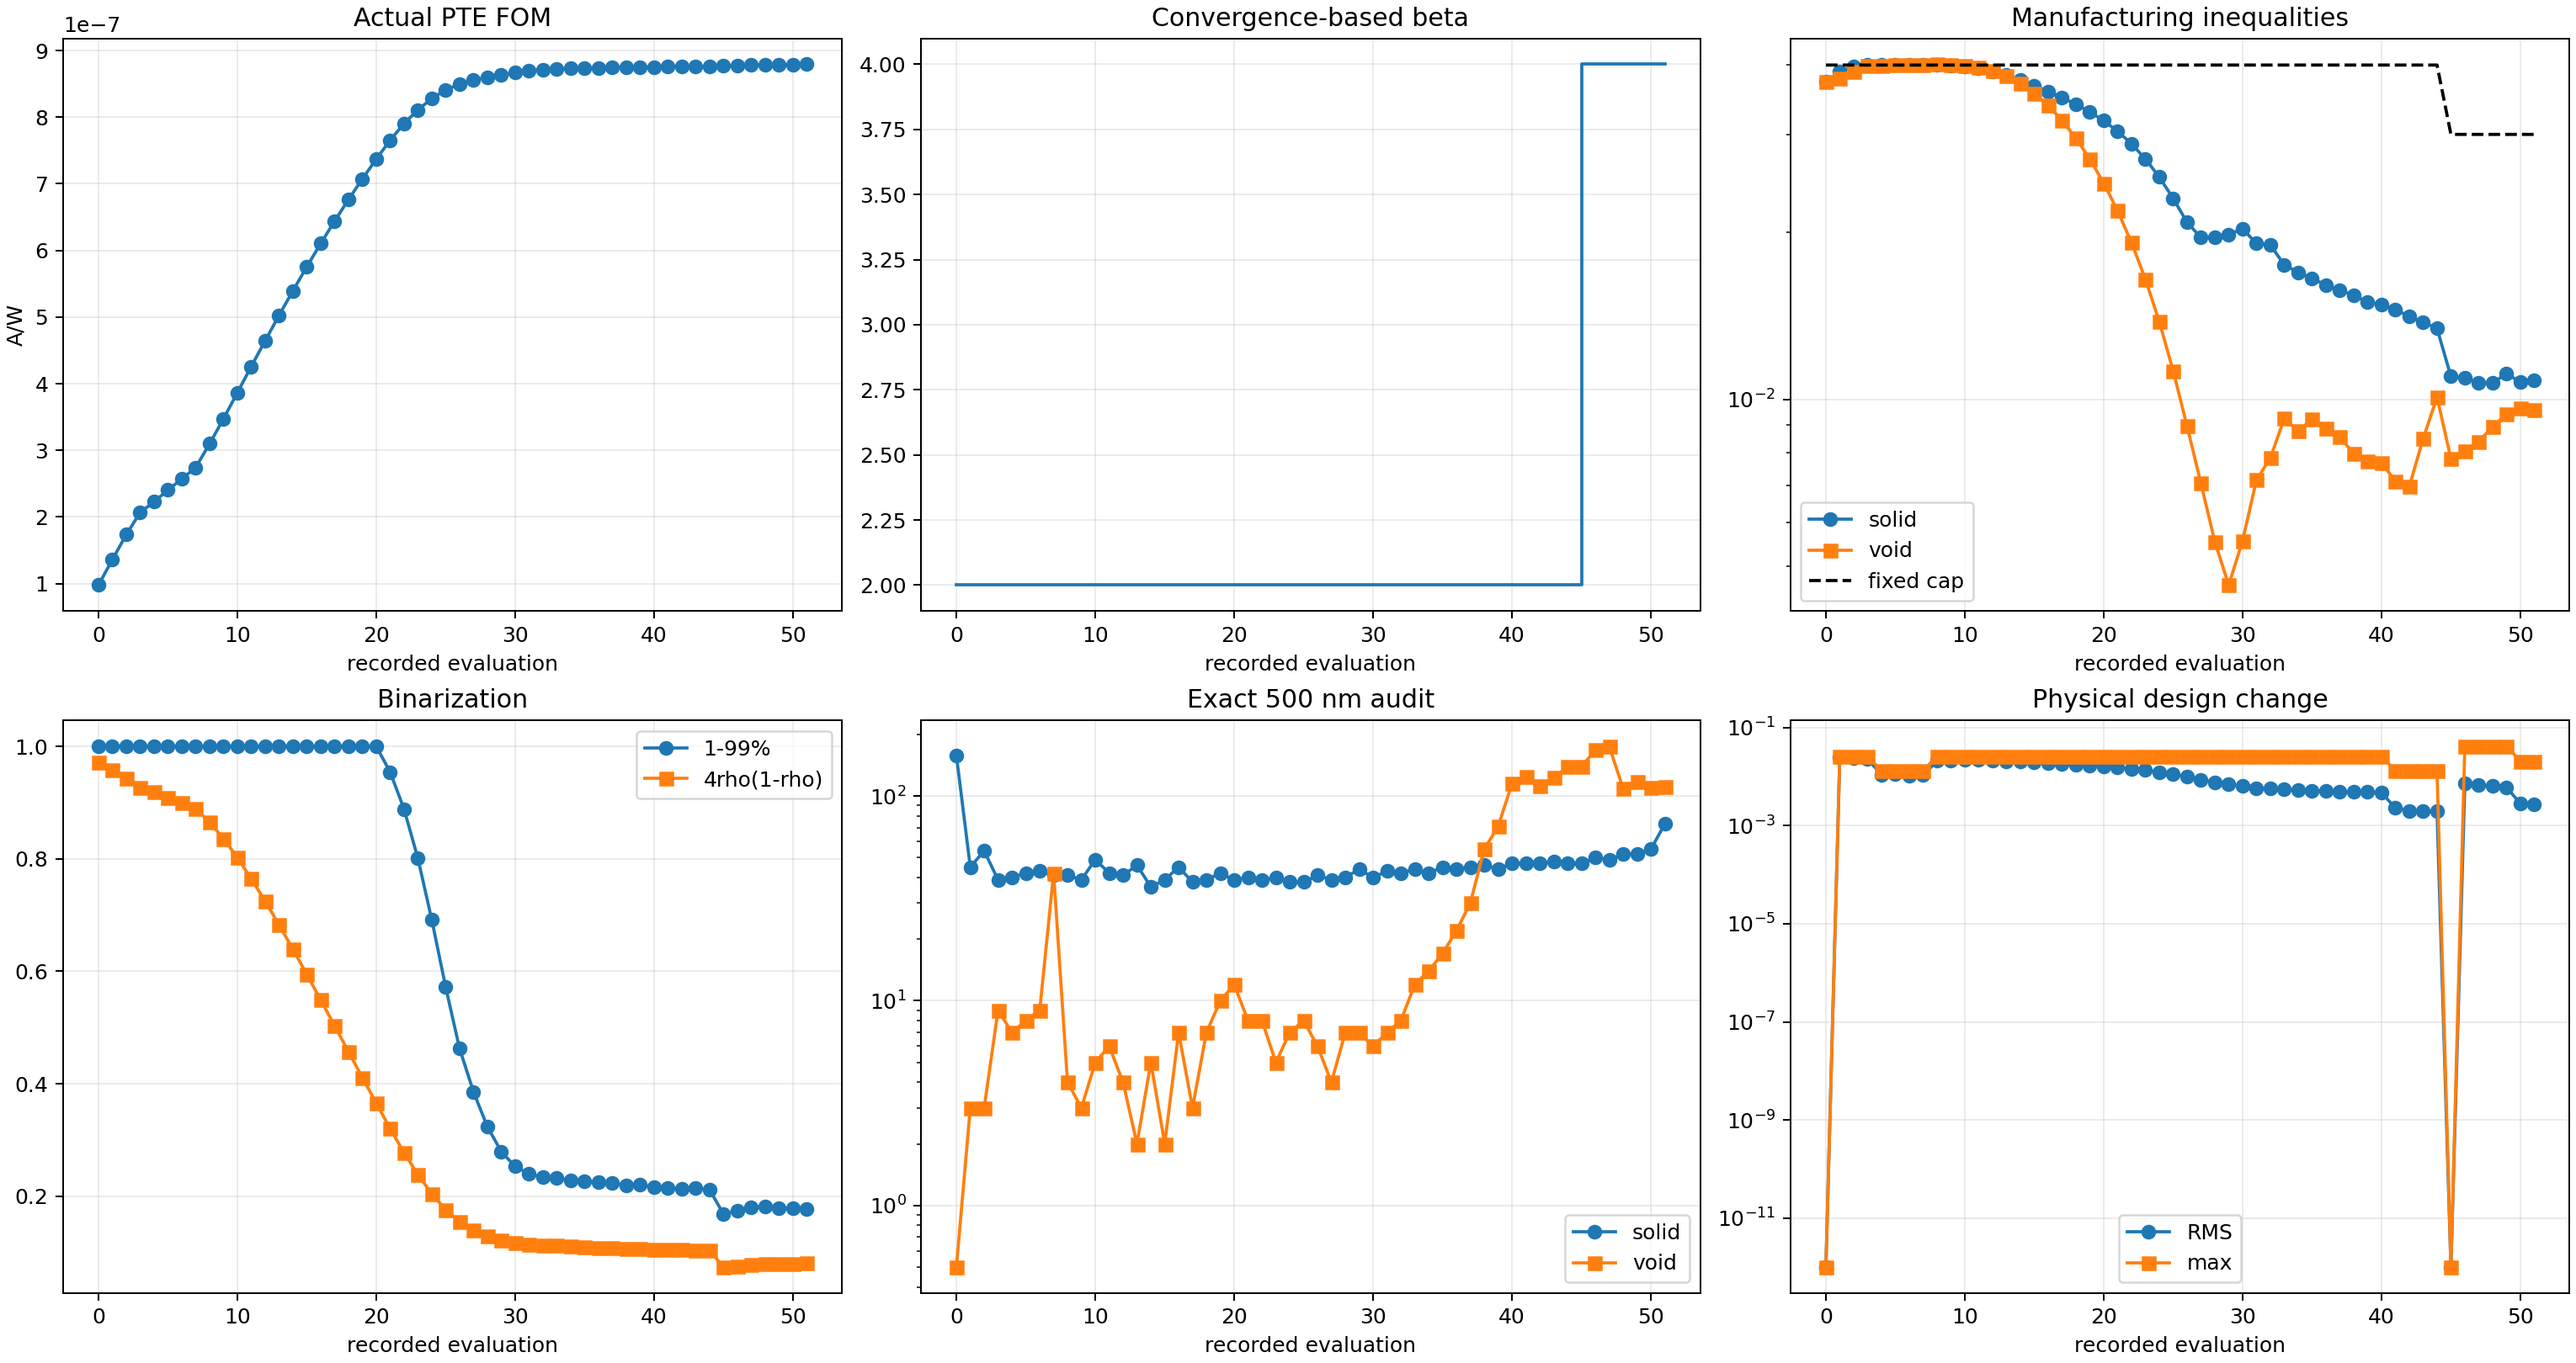
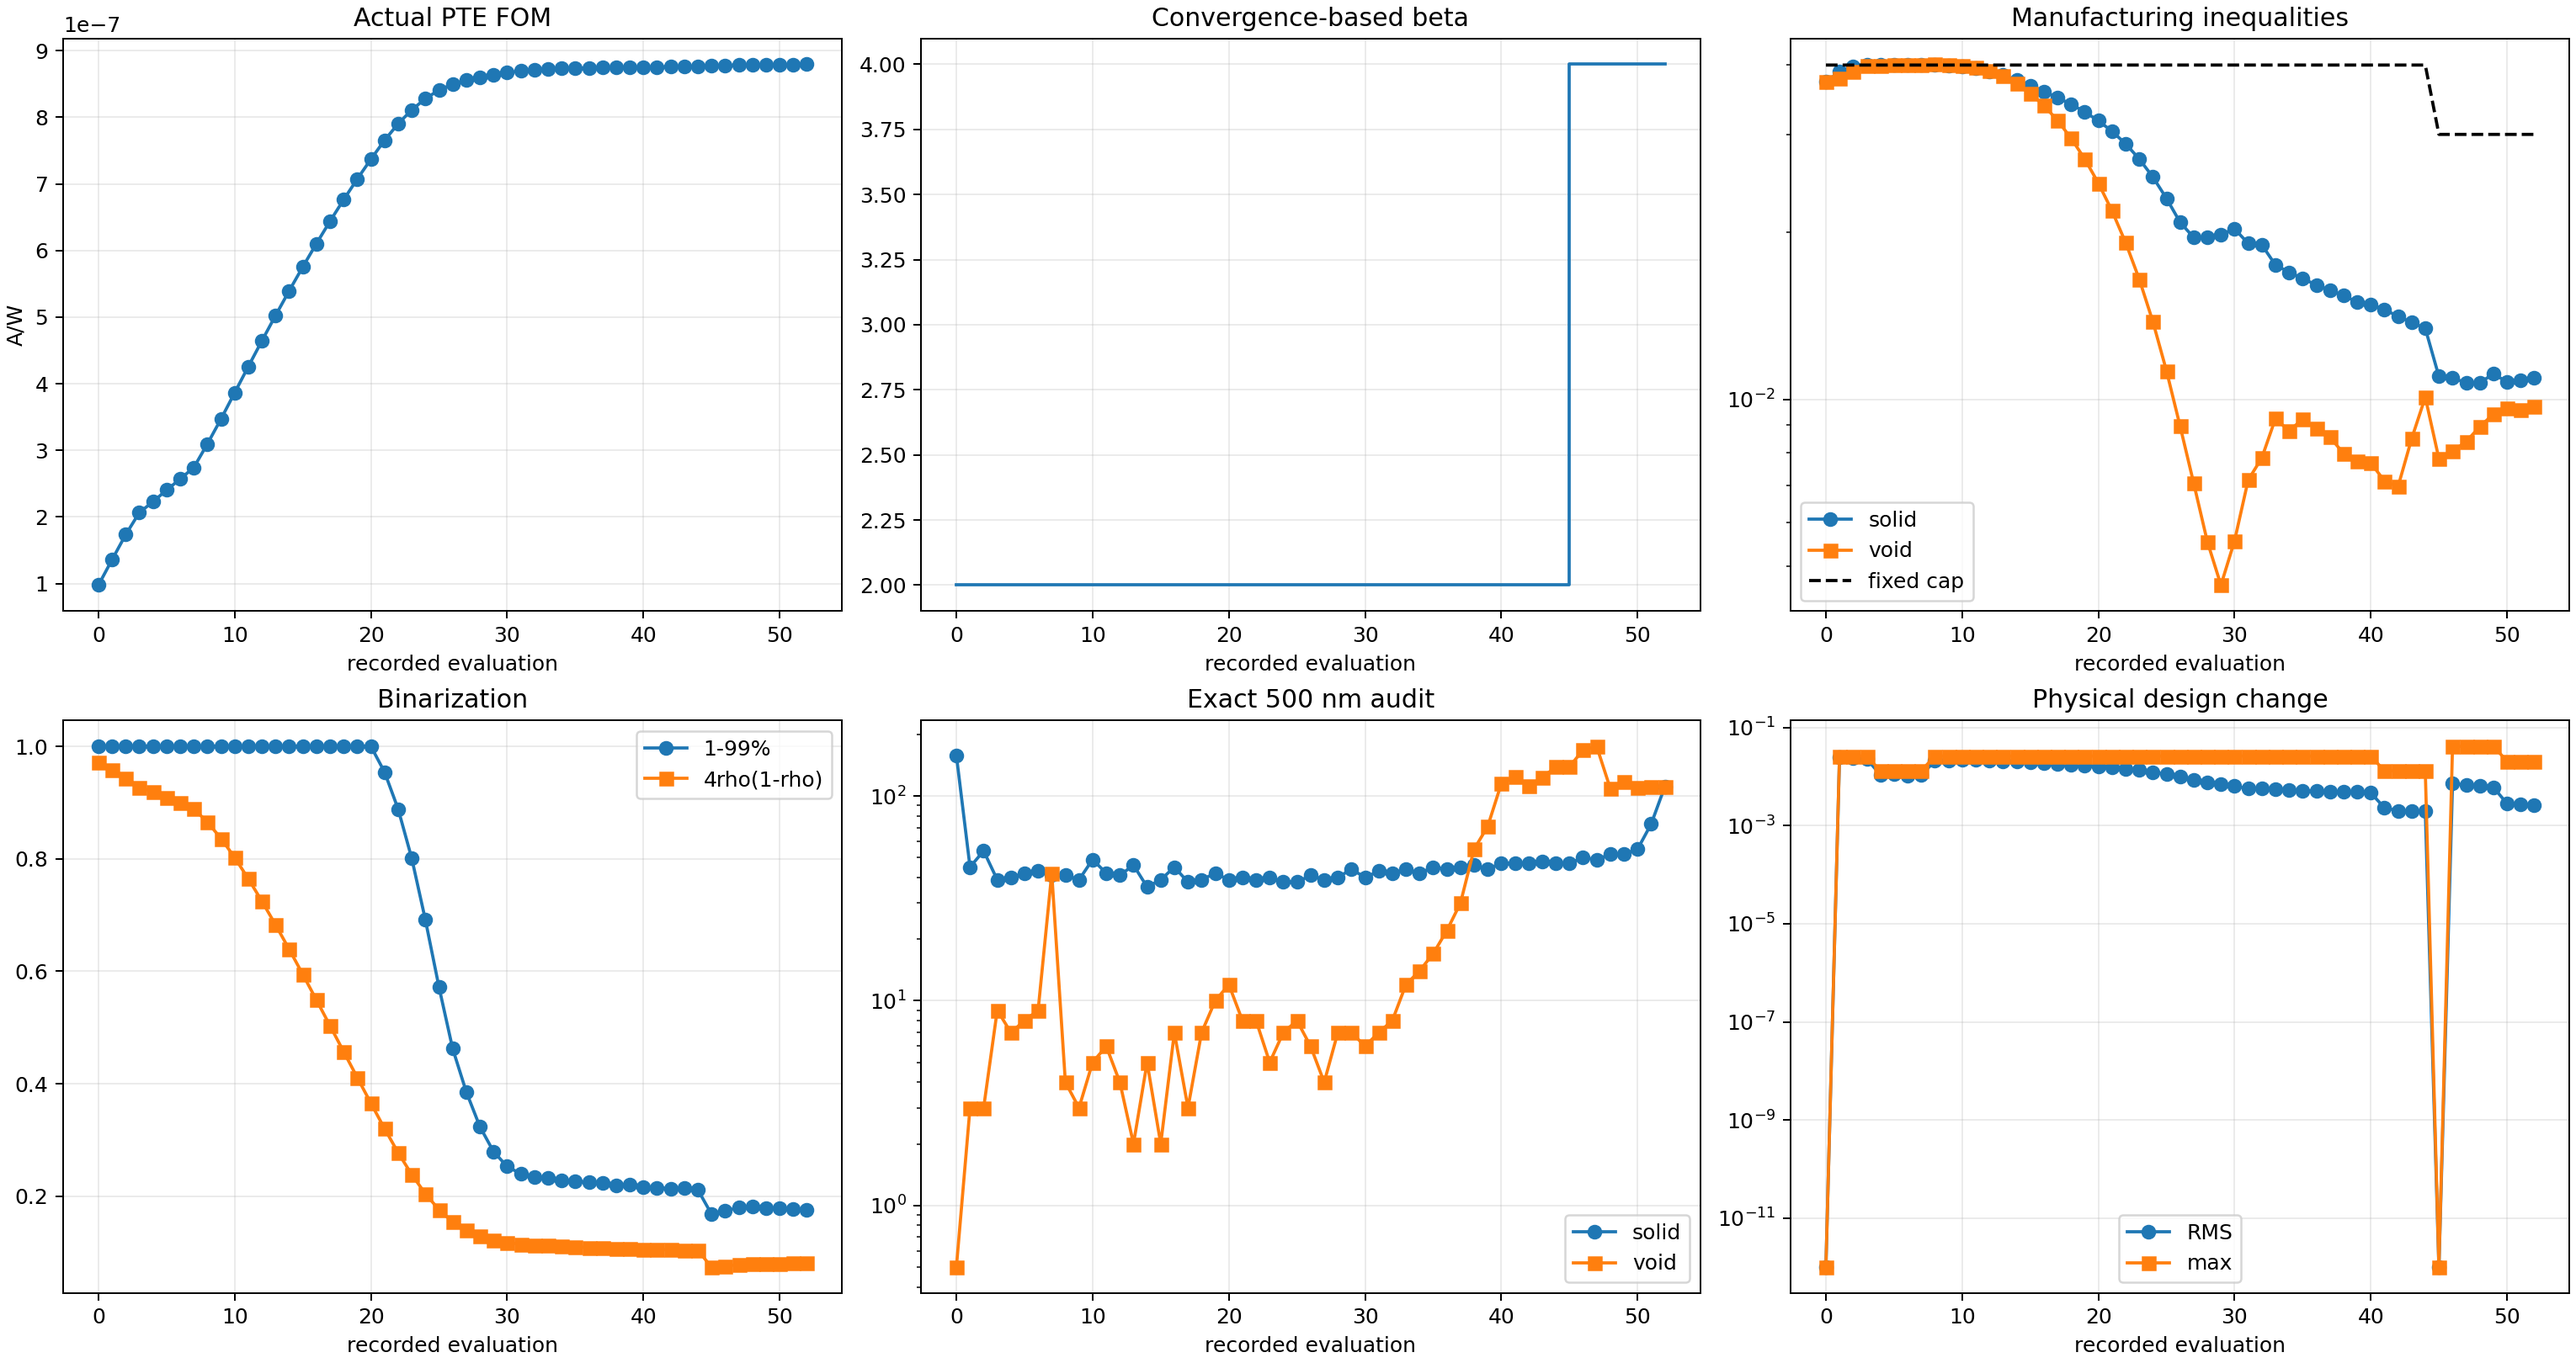
Record Run 003 run003_b004_s007_g051_accepted_mma

diff --git a/photothermal_pte/optimization_runs/run_003_gaussian10_w8p5_current_max_converged/results/OPTIMIZATION_REPORT.md b/photothermal_pte/optimization_runs/run_003_gaussian10_w8p5_current_max_converged/results/OPTIMIZATION_REPORT.md
@@ -2,10 +2,10 @@
 
 Status: `RUNNING_CONVERGENCE_BASED_CONSTRAINED_BETA_CONTINUATION`
 
-Current stage: beta=4, accepted stage iteration=6, global iteration=50.
+Current stage: beta=4, accepted stage iteration=7, global iteration=51.
 
-Actual FOM: `8.793628991238e-07 A/W`. Fixed-cap solid/void constraints: `1.080185e-02` / `9.570017e-03` with cap `3.000000e-02`.
+Actual FOM: `8.795155449414e-07 A/W`. Fixed-cap solid/void constraints: `1.094203e-02` / `9.707638e-03` with cap `3.000000e-02`.
 
-Exact 500 nm bad cells: solid `73`, void `111`. Stage convergence: `False` (need at least 8 accepted updates).
+Exact 500 nm bad cells: solid `111`, void `111`. Stage convergence: `False` (need at least 8 accepted updates).
 
 Beta is promoted only after fixed-inequality feasibility and a four-update FOM/design plateau; it is never promoted after one nominal update.
